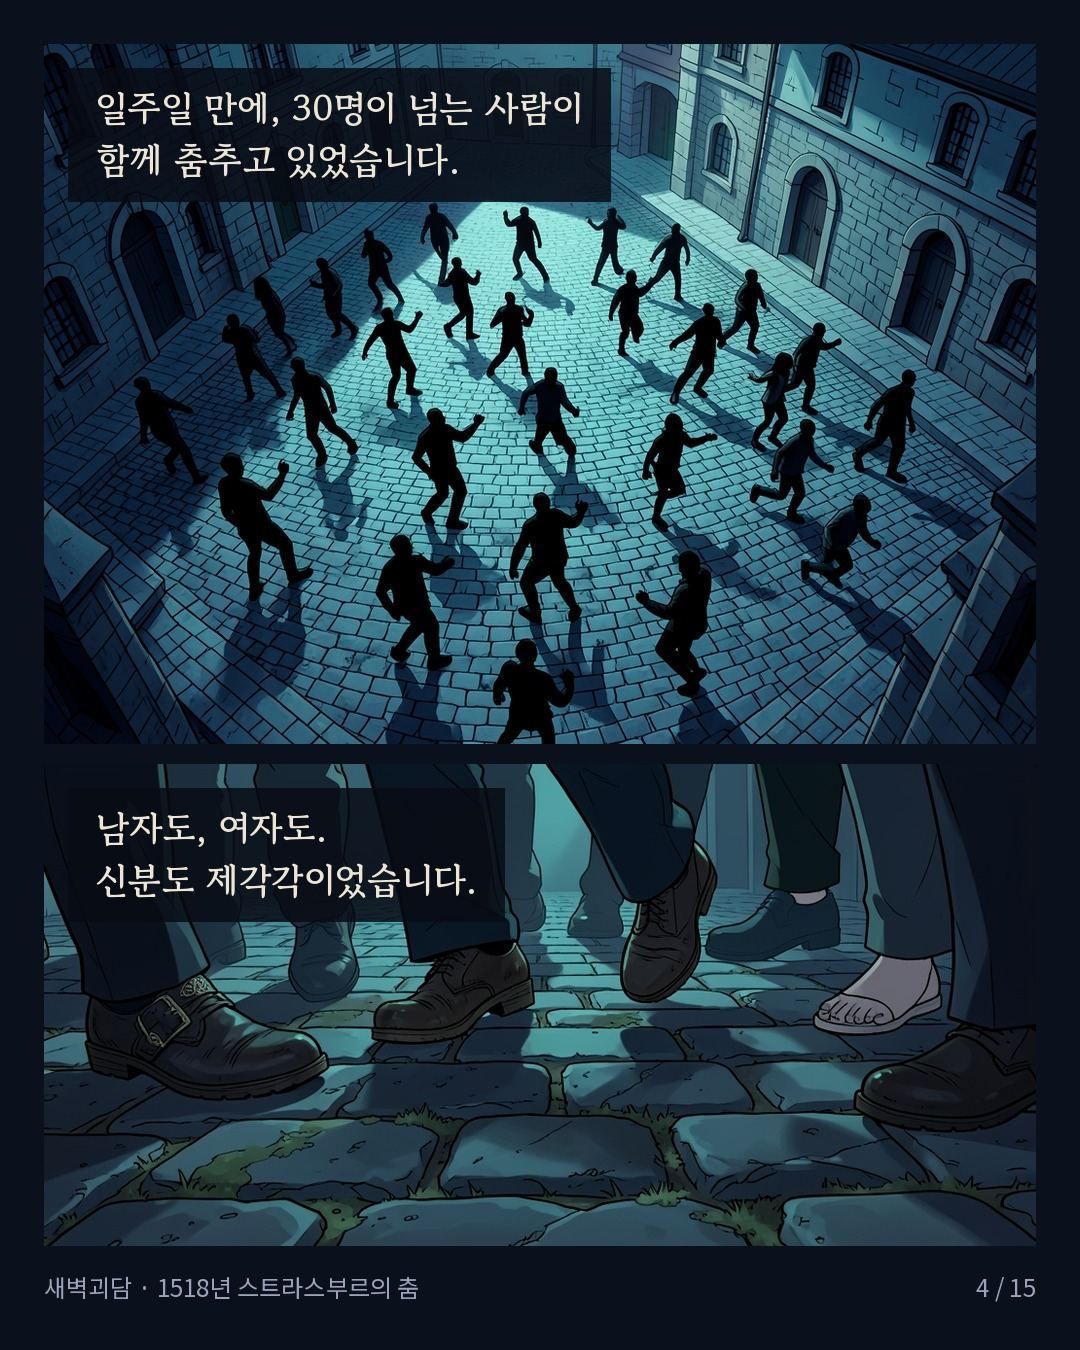
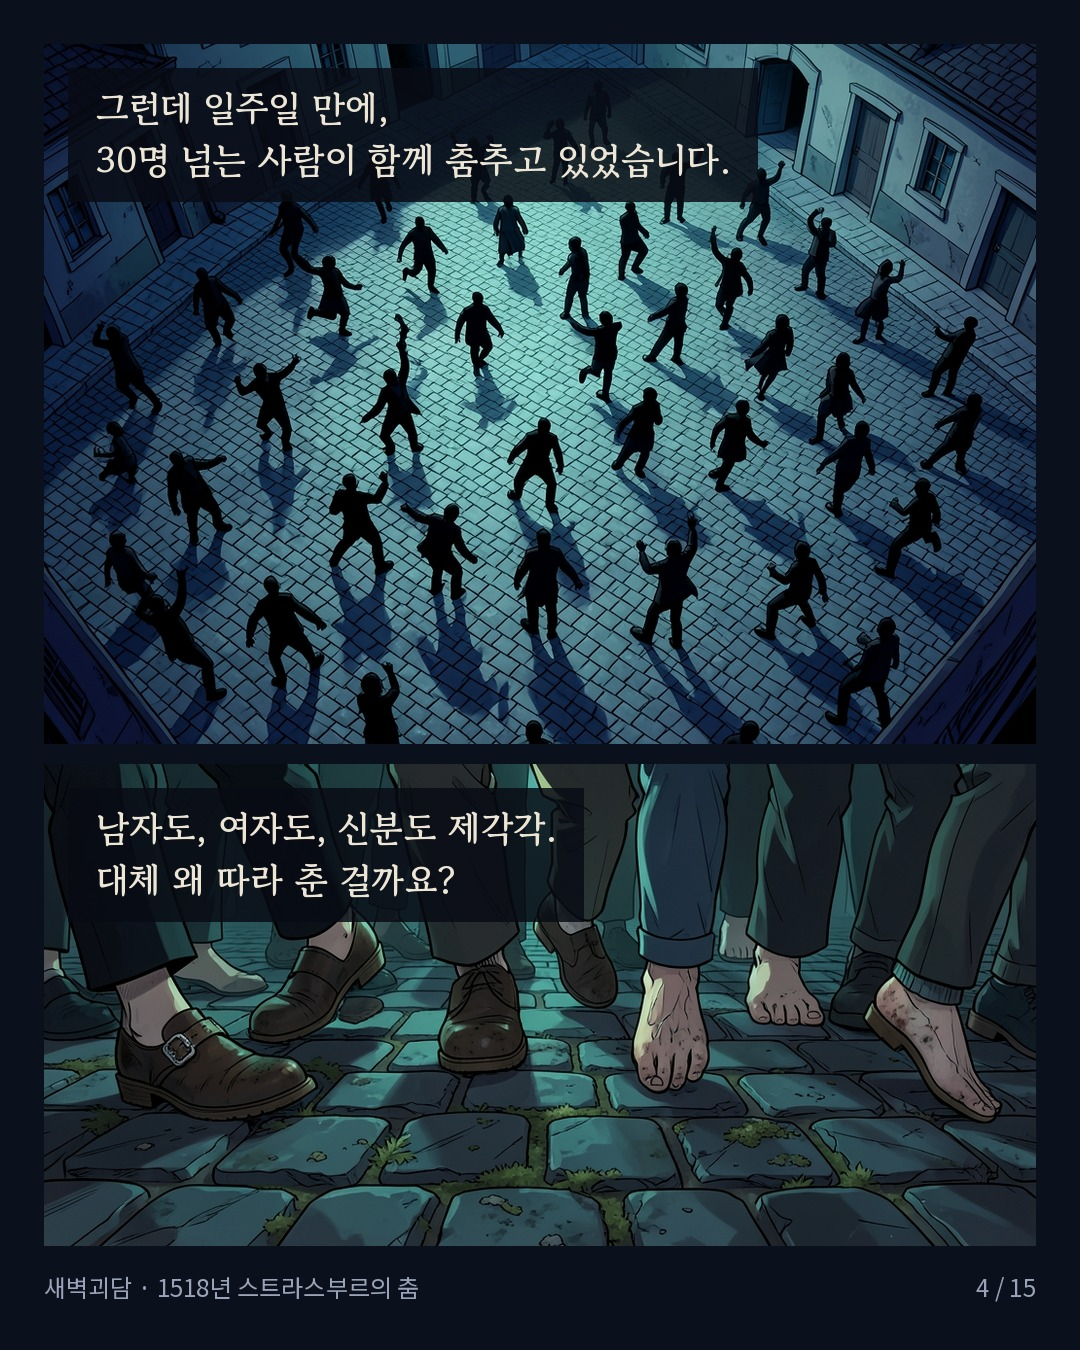
ossak: N-0002 v2 (스토리 재구성, PD 판정 반영)
Claude-Session: https://claude.ai/code/session_019bwaLXeH1mXXoGfMUQcWxs

diff --git a/ossak/engine/episodes/N-0002-strasbourg1518/brief.md b/ossak/engine/episodes/N-0002-strasbourg1518/brief.md
@@ -1,0 +1,77 @@
+# N-0002 스트라스부르 1518 '춤 전염병' PD 기획서 (새벽괴담)
+
+## 로그라인
+이 편은 음악도 없이 시작된 한 여자의 춤이, 치료하려 할수록 번지다가 믿음 하나로 멈춘 이야기다.
+
+## 시청자 진입점
+"내가 그 거리 창가에서 지켜보던 사람이었다면, 다음은 내 차례일지도 모른다고 느꼈을 것이다." (ch13의 공포가 곧 독자의 진입점)
+
+## 콘티 유형
+D 확산형: 한 여자의 춤(작은 시작) → 30명, 무대 뒤 400명(걷잡을 수 없이 커짐) → 성지의 기도로 잦아듦(뜻밖의 끝).
+
+## 이해 체크포인트
+- 3장까지: 누가(한 여자와 구경하던 사람들) / 언제(1518년 7월) / 어디서(스트라스부르 거리) / 무엇을(음악 없이 춤을 멈추지 않음, 첫 주에 '성 비투스의 벌' 소문).
+- 7장까지 중심 질문: 왜 음악도 없는데 사람들이 따라 췄고, 왜 치료할수록 늘었고, 왜 멈추지 못했나?
+- 마지막 3장(12~14): 벌을 믿을 만큼 지친 사람들 → 공포가 몸을 움직임 → 같은 믿음이 기도로 멈춤.
+- 장마다 생각 하나: 2 시작 / 3 쉬지 않음+소문 / 4 왜 따라 췄나 / 5 의사의 처방 / 6 무대 / 7 늘어남 / 8 금지와 성지행 / 9 기도 / 10 이상한 점 정리 / 11 오답 / 12 실마리 / 13 공포 / 14 믿음 / 15 부기.
+
+## 이름·용어
+- 기억할 이름 2개: 성 비투스, 존 월러(14장에서만, 출처 표기용). 인물 이름은 따로 두지 않음.
+- 풀어 줄 말: 길드 회관(6장), 연대기(7장), 집단 심인성 질환(14장). 쉬운 말로 풀거나 빼기.
+
+## 감정 곡선 (장별 긴장도 1~5)
+1:4 / 2:3 / 3:3 / 4:4 / 5:4 / 6:4 / 7:5 / 8:4 / 9:4 / 10:3 / 11:3 / 12:4 / 13:4 / 14:5 / 15:3. 3 이하가 2장 넘게 이어지지 않음.
+
+## 대표 그림 1장
+텅 빈 시장 한복판의 무대 위에서 얼굴 없는 실루엣들이 끝없이 도는 장면(7장). 표지와 릴스 첫 프레임 후보는 음악 없는 거리에서 홀로 춤추는 한 실루엣과 따라 나서는 사람들.
+
+## 빼는 것
+콘티에 없는 곁가지(개인 신상, 세부 연표, 다른 해의 비슷한 사례)는 넣지 않는다. 오답 목록은 3개로 제한하고, 중심 질문(번짐·악화·멈춤)과 상관없는 설명은 싣지 않는다.
+
+## 답이 회수할 의문
+- 왜 음악 없이 따라 췄나(4장) → 회수: 흉년과 병으로 지친 사람들의 공포(13장).
+- 왜 치료할수록 늘었나(7장) → 회수: 무대가 저주를 눈앞에 보여 준 셈(14장).
+- 왜 기도로 멈췄나(9장) → 회수: 성인이 벌을 거뒀다는 신호(14장).
+- 왜 붉은 신이었나(9장) → 회수도 열린 의문도 아님. 14장에서 한 줄로 회수하거나 9장에서 뺀다.
+- 열린 의문: 설명은 확정이 아님(14장), 지금 우리에게도 일어날까(15장).
+
+## 채널 적합성
+말머리 새벽괴담(리스크 저). 피·시신·흉기 없이 춤, 무대, 성지의 기도로만 구성되어 차분하고 기묘한 톤 유지. 국내 사건 아님, 실존 피해자 실명 없음.
+
+## 부기 질문
+"그때 시가 무대를 세우지 않았다면 어땠을까요?" + 열린 의문 "지금 우리에게도 이런 일이 일어날까요?" (본문의 갈림길인 6장 무대에서 나옴)
+
+---
+
+## PD 판정
+
+**판정: 수정 필요 (경미)**. 구조는 기획서와 일치한다. 의문 3단계(음악 없이 번짐 → 치료할수록 늘어남 → 기도로 멈춤)가 시간 순서로 쌓이고, 3장의 '성 비투스의 벌' 소문이 12장에서 회수되며, 결말 사건이 오답 목록 앞에 있어 답처럼 보이지 않는다. 다만 아래 5곳은 앞뒤 장과 어긋나거나 회수되지 않아 고쳐야 한다.
+
+### 감정 곡선
+
+| 장 | 1 | 2 | 3 | 4 | 5 | 6 | 7 | 8 | 9 | 10 | 11 | 12 | 13 | 14 | 15 |
+|---|---|---|---|---|---|---|---|---|---|---|---|---|---|---|---|
+| 긴장도 | 4 | 3 | 3 | 4 | 4 | 4 | 5 | 4 | 4 | 3 | 3 | 4 | 4 | 5 | 3 |
+
+3 이하 연속은 최대 2장(2~3, 10~11)이라 기준 통과.
+
+### 수정 제안 (5개)
+
+1. **10장 저장 카드**: 7장에서 400명은 무대 이후의 수치인데 '음악 없이 번졌다'에 400명이 붙어 모순된다.
+   - 원문: `음악 없이 번졌다: 한 여자의 춤이 30명, 기록상 400명까지`
+   - 제안: `음악 없이 번졌다: 한 여자의 춤이 일주일 만에 30명으로`
+2. **11장 오답 ①**: 3장은 '나흘에서 일주일'인데 '몇 주씩'이라 맞지 않는다. 카드도 길어 압축.
+   - 원문: `그 독은 팔다리 혈관을 조입니다. 그 몸으로 몇 주씩 춤추긴 어렵죠`
+   - 제안: `독이 팔다리 혈관을 조입니다. 그 몸으로 나흘씩 춤추긴 어렵죠`
+3. **14장 답 카드**: 9장·10장의 '붉은 신'이 회수되지 않고, 장당 글이 너무 길고, '집단 심인성 질환'이 풀리지 않았다.
+   - 원문: `성 비투스의 성지에서, 성 비투스에게 올린 기도. 그들에겐 '이제 벌을 거두셨다'는 신호였습니다.`
+   - 제안: `성 비투스의 성지, 붉은 신, 성수와 기도. 그들에겐 '이제 벌을 거두셨다'는 신호였습니다.`
+   - 카드 마지막 줄 원문 `역사학자 존 월러의 설명(집단 심인성 질환)` → 제안 `역사학자 존 월러의 설명(두려움이 몸으로 번진 병, 집단 심인성 질환)`
+4. **7장 '북소리'**: 6장에는 악사만 나오고 북이 없다. 14장 '북소리 무대'도 같은 문제. '연대기'도 낯선 말.
+   - 원문: `그런데 북소리가 울릴수록, 춤추는 사람은 오히려 늘어났습니다.  ▸ 한 연대기는 '한 달 만에 400명'이라고 적었습니다.`
+   - 제안: `그런데 악사들의 연주가 울릴수록, 춤추는 사람은 오히려 늘어났습니다.  ▸ 당시 기록 하나는 '한 달 만에 400명'이라고 적었습니다.` (14장 `북소리 무대` → `음악 무대`. 조사노트에 북이 있으면 6장에 '북 치는 악사'로 먼저 보여 주는 방법도 가능)
+5. **6장 '길드 회관'**: 처음 나오는 낯선 말을 풀지 않았다.
+   - 원문: `시는 길드 회관을 비우고, 시장에 무대를 세웠습니다.`
+   - 제안: `시는 상인·장인 조합의 회관을 비우고, 시장에 무대를 세웠습니다.`
+
+위 5곳을 고친 뒤 '처음 보는 사람 검수'에서 요약·중심 질문·답이 로그라인과 같고 붉은 신이 회수되는지 확인하면 최종 통과.
